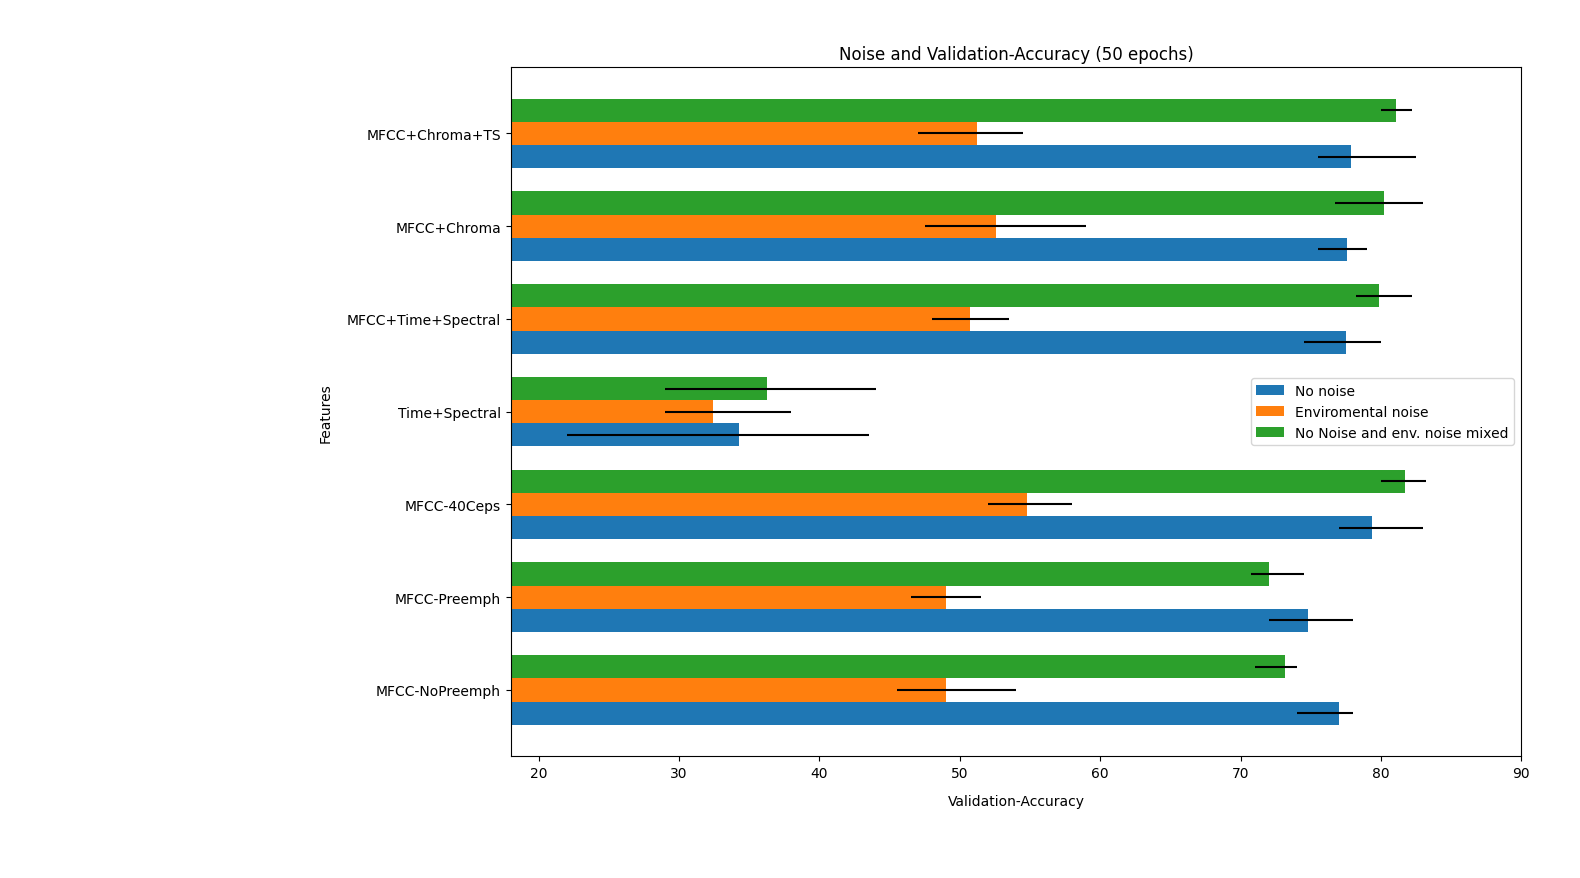
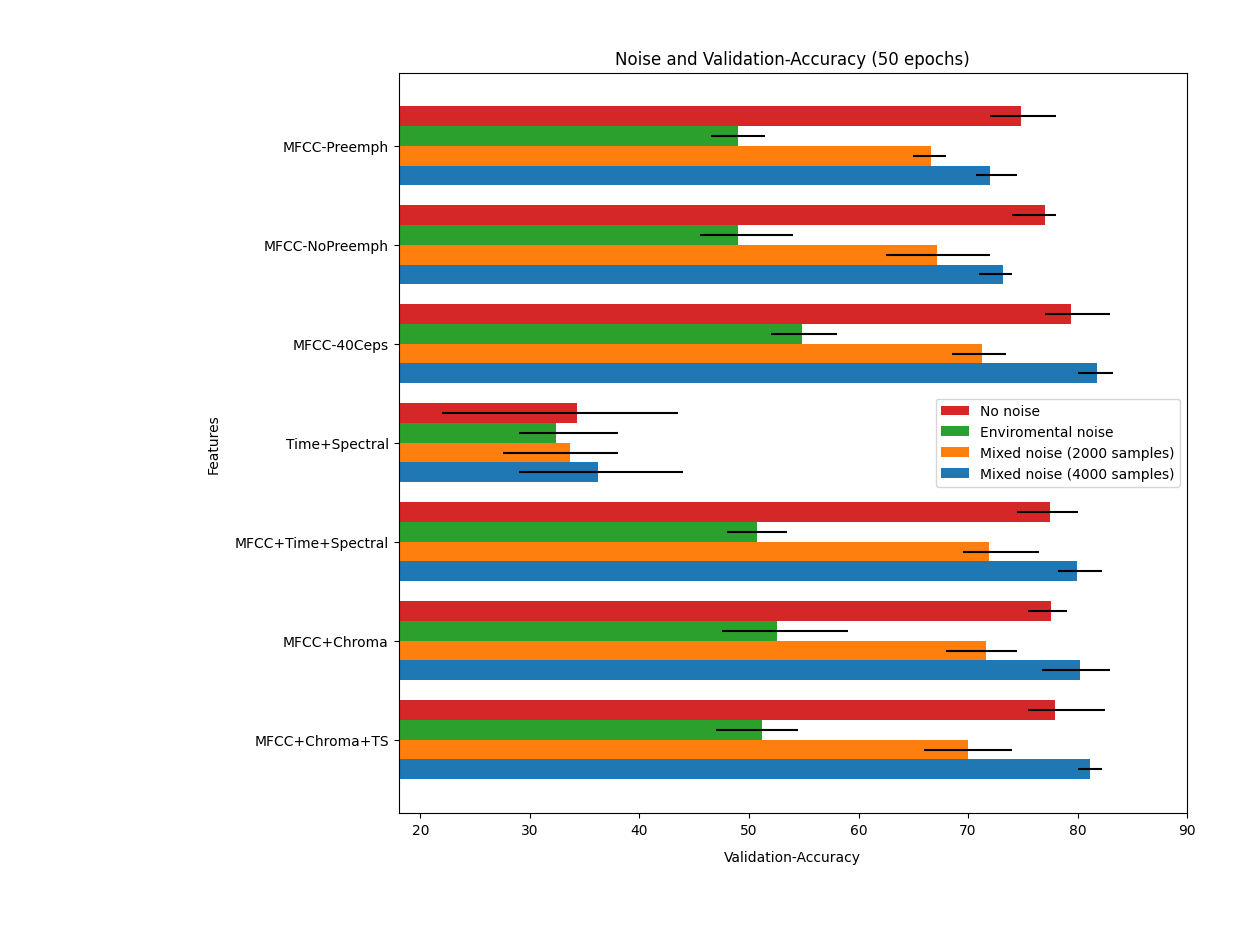
Added mixed noise testing with 2000 samples

diff --git a/scripts/evenmaker.py b/scripts/evenmaker.py
@@ -25,20 +25,20 @@ def match_target_amplitude(sound, target_dBFS):
     change_in_dBFS = target_dBFS - sound.dBFS
     return sound.apply_gain(change_in_dBFS)
 
-os.chdir(PATH_EMO)
-
-for aud in glob.glob("*.wav"):
-    sound = AudioSegment.from_file(aud)
-    sound = sound.set_frame_rate(OUTRATE)
-    sound = sound.set_channels(OUTCHANNELS)
-    silence = AudioSegment.silent(duration=0.1)  #duration in milliseconds
-    silence.set_frame_rate(OUTRATE)
-    silence.set_channels(OUTCHANNELS)
-    sound += silence
-    sound += silence
-    sound = match_target_amplitude(sound, -40.0)
-    filepath = PATH_EMO_NEW + aud
-    sound.export(filepath, format="wav")
+# os.chdir(PATH_EMO)
+#
+# for aud in glob.glob("*.wav"):
+#     sound = AudioSegment.from_file(aud)
+#     sound = sound.set_frame_rate(OUTRATE)
+#     sound = sound.set_channels(OUTCHANNELS)
+#     silence = AudioSegment.silent(duration=0.1)  #duration in milliseconds
+#     silence.set_frame_rate(OUTRATE)
+#     silence.set_channels(OUTCHANNELS)
+#     sound += silence
+#     sound += silence
+#     sound = match_target_amplitude(sound, -40.0)
+#     filepath = PATH_EMO_NEW + aud
+#     sound.export(filepath, format="wav")
 
 # os.chdir(PATH_EMO_NEW)
 #
@@ -68,15 +68,15 @@ for aud in glob.glob("*.wav"):
 #     print('Subtype: {}'.format(ob.subtype))
 #     print('Frames: {}'.format(ob.frames))
 
-os.chdir(PATH_ZENODO)
-
-for aud in glob.glob("*.wav"):
-    sound = AudioSegment.from_file(aud)
-    sound = sound.set_frame_rate(OUTRATE)
-    sound = sound.set_channels(OUTCHANNELS)
-    sound = match_target_amplitude(sound, -40.0)
-    filepath = PATH_ZENODO_NEW + aud
-    sound.export(filepath, format="wav")
+# os.chdir(PATH_ZENODO)
+#
+# for aud in glob.glob("*.wav"):
+#     sound = AudioSegment.from_file(aud)
+#     sound = sound.set_frame_rate(OUTRATE)
+#     sound = sound.set_channels(OUTCHANNELS)
+#     sound = match_target_amplitude(sound, -40.0)
+#     filepath = PATH_ZENODO_NEW + aud
+#     sound.export(filepath, format="wav")
 
 # os.chdir(PATH_ZENODO_NEW)
 #
@@ -87,25 +87,25 @@ for aud in glob.glob("*.wav"):
 #     print('Subtype: {}'.format(ob.subtype))
 #     print('Frames: {}'.format(ob.frames))
 
-os.chdir(PATH_ENV)
-
-for aud in glob.glob("*.wav"):
-    sound = AudioSegment.from_file(aud)
-    sound = sound.set_frame_rate(OUTRATE)
-    sound = sound.set_channels(OUTCHANNELS)
-    silence = AudioSegment.silent(duration=0.1)  #duration in milliseconds
-    silence.set_frame_rate(OUTRATE)
-    silence.set_channels(OUTCHANNELS)
-    sound += silence
-    sound += silence
-    sound += silence
-    silence = AudioSegment.silent(duration=833.4)  #duration in milliseconds
-    silence.set_frame_rate(OUTRATE)
-    silence.set_channels(OUTCHANNELS)
-    sound += silence
-    sound = match_target_amplitude(sound, -40.0)
-    filepath = PATH_ENV_NEW + aud
-    sound.export(filepath, format="wav")
+# os.chdir(PATH_ENV)
+#
+# for aud in glob.glob("*.wav"):
+#     sound = AudioSegment.from_file(aud)
+#     sound = sound.set_frame_rate(OUTRATE)
+#     sound = sound.set_channels(OUTCHANNELS)
+#     silence = AudioSegment.silent(duration=0.1)  #duration in milliseconds
+#     silence.set_frame_rate(OUTRATE)
+#     silence.set_channels(OUTCHANNELS)
+#     sound += silence
+#     sound += silence
+#     sound += silence
+#     silence = AudioSegment.silent(duration=833.4)  #duration in milliseconds
+#     silence.set_frame_rate(OUTRATE)
+#     silence.set_channels(OUTCHANNELS)
+#     sound += silence
+#     sound = match_target_amplitude(sound, -40.0)
+#     filepath = PATH_ENV_NEW + aud
+#     sound.export(filepath, format="wav")
 
 # os.chdir(PATH_ENV_NEW)
 #

diff --git a/graphs/noise_and_feature/noise_and_feature.py b/graphs/noise_and_feature/noise_and_feature.py
@@ -17,6 +17,10 @@ l=[]
 lmin=[]
 lmax=[]
 
+m=[]
+mmin=[]
+mmax=[]
+
 os.chdir("/home/smu/Desktop/RNN/graphs/noise_and_feature")
 
 with open('data_both_nonoise.csv', 'r') as csvfile:
@@ -50,22 +54,40 @@ with open('data_both_mixednoise.csv', 'r') as csvfile:
 
 lerror = [lmin, lmax]
 
+with open('data_both_mixednoise2000.csv', 'r') as csvfile:
+    plots = csv.reader(csvfile, delimiter=',')
+    next(plots, None)
+    for row in plots:
+        m.append(float(row[8]))
+        mmin.append(float(row[8])-float(row[6]))
+        mmax.append(float(row[7])-float(row[8]))
+
+merror = [mmin, mmax]
+
 y_pos = np.arange(len(x))
 
 plt.xlim(18,90)
+plt.ylim()
 # Create bars
-fig1 = plt.barh(y_pos, y, xerr=yerror, height=0.25)
-fig2 = plt.barh(y_pos+0.25, k, xerr=kerror, height=0.25)
-fig3 = plt.barh(y_pos+0.5, l, xerr=lerror, height=0.25)
+fig1 = plt.barh(y_pos, l, xerr=lerror, height=0.20, label='Mixed noise (4000 samples)')
+fig2 = plt.barh(y_pos+0.20, m, xerr=merror, height=0.20, label='Mixed noise (2000 samples)')
+fig3 = plt.barh(y_pos+0.40, k, xerr=kerror, height=0.20, label='Enviromental noise')
+fig3 = plt.barh(y_pos+0.60, y, xerr=yerror, height=0.20, label='No noise')
 
 # Create names on the x-axis
-plt.yticks(y_pos+0.25, x)
+plt.yticks(y_pos+0.3, x)
+
 
 plt.title('Noise and Validation-Accuracy (50 epochs)')
 plt.xlabel('Validation-Accuracy',labelpad=10)
 plt.ylabel('Features',labelpad=10)
-plt.legend(('No noise', 'Enviromental noise', 'No Noise and env. noise mixed'))
-plt.tight_layout()
+plt.legend()
+# plt.legend(('Mixed noise (4000 samples)', 'Mixed noise (2000 samples)', 'Enviromental noise', 'No noise'))
 
+
+ax = plt.gca()
+handles, labels = ax.get_legend_handles_labels()
+ax.legend(handles[::-1], labels[::-1])
+plt.tight_layout()
 # Show graphic
 plt.show()

diff --git a/train_mfcc.py b/train_mfcc.py
@@ -21,13 +21,13 @@ import itertools
 import io
 
 # Preemph-Filter to reduce noise
-PREEMPH = 0.0
+PREEMPH = 0.97
 
 # Number of Testsamples
-NUMBER_TESTSAMPLES = 400
+NUMBER_TESTSAMPLES = 200
 
 # Name of the model (for saving and logs)
-PREMODELNAME = "rnn_full_40mfcc_nopreemph_mixednoise_resnet_ws08_512_"
+PREMODELNAME = "rnn_full_mfcc_preemph_mixednoise2000_resnet_ws08_512_"
 
 # NFFT - This is the frequency resolution
 # By default, the FFT size is the first equal or superior power of 2 of the window size.
@@ -45,10 +45,10 @@ WINDOW_STEP = 0.1
 UNITS = 512
 
 # Number of MFCCs
-NUMCEP = 40
+NUMCEP = 13
 
 # Number of Melfilters
-NUMFILT = 40
+NUMFILT = 26
 
 # Path where the train-data is stored
 PATH_TRAINDATA = "/home/smu/Desktop/RNN/train_data/"
@@ -395,7 +395,7 @@ while cc < 6:
     print("Generating model ...")
 
     # RESNET
-    input1 = layers.Input(shape=(None, 40))
+    input1 = layers.Input(shape=(None, 13))
     lstm1 = layers.LSTM(UNITS, return_sequences=True)(input1)
     lstm2 = layers.LSTM(UNITS, return_sequences=True)(lstm1)
     merge1 = layers.Concatenate(axis=2)([input1,lstm2])

diff --git a/train_mfcc+chroma.py b/train_mfcc+chroma.py
@@ -26,10 +26,10 @@ import io
 PREEMPH = 0.0
 
 # Number of Testsamples
-NUMBER_TESTSAMPLES = 400
+NUMBER_TESTSAMPLES = 200
 
 # Name of the model (for saving and logs)
-PREMODELNAME = "rnn_full_mfcc+chroma_nopreemph_mixednoise_resnet_ws08_512_"
+PREMODELNAME = "rnn_full_mfcc+chroma_nopreemph_mixednoise2000_resnet_ws08_512_"
 
 # NFFT - This is the frequency resolution
 # By default, the FFT size is the first equal or superior power of 2 of the window size.
@@ -70,7 +70,6 @@ print("Generating features from own recordings ...")
 for aud in tqdm(glob.glob("*.wav")):
     [Fs, x] = audioBasicIO.read_audio_file(aud)
     F, f_names = chromafeatures.feature_extraction(x, Fs, WINDOW_SIZE*Fs, WINDOW_STEP*Fs)
-    print(F)
     (rate,sig) = wav.read(aud)
     mfcc_feat = mfcc(sig, rate, numcep=NUMCEP, nfilt=NUMFILT, winlen=WINDOW_SIZE, winstep=WINDOW_STEP, nfft=NFFT, preemph=PREEMPH)
     emotion = "N"

diff --git a/train_mfcc+time+spec.py b/train_mfcc+time+spec.py
@@ -26,10 +26,10 @@ import io
 PREEMPH = 0.0
 
 # Number of Testsamples
-NUMBER_TESTSAMPLES = 400
+NUMBER_TESTSAMPLES = 200
 
 # Name of the model (for saving and logs)
-PREMODELNAME = "rnn_full_mfcc+time+spec_nopreemph_mixednoise_resnet_ws08_512_"
+PREMODELNAME = "rnn_full_mfcc+time+spec_nopreemph_mixednoise2000_resnet_ws08_512_"
 
 # NFFT - This is the frequency resolution
 # By default, the FFT size is the first equal or superior power of 2 of the window size.
@@ -87,7 +87,7 @@ for aud in tqdm(glob.glob("*.wav")):
         emotion = "T"
     F = np.swapaxes(F, 0, 1)
     F = np.append(F, mfcc_feat, axis=1)
-    featurefile = "../../train_data/" + aud + "___" + emotion
+    featurefile = "../../train_data/" + aud + "_" + emotion
     np.save(featurefile, F)
 
 os.chdir("/home/smu/Desktop/RNN/audiodata/own_sixseconds_envnoise")

diff --git a/scripts/adjustlength_own.py b/scripts/adjustlength_own.py
@@ -6,7 +6,7 @@ from pydub.utils import make_chunks
 import os
 import glob, shutil, sys, random
 
-os.chdir("/home/smu/Desktop/RNN/own")
+os.chdir("/home/smu/Desktop/RNN/audiodata/0_srcfiles/own")
 
 print("Making each sample 6 seconds long")
 
@@ -16,7 +16,7 @@ for aud in glob.glob("*.wav"):
     chunks = make_chunks(myaudio, chunk_length_ms) #Make chunks of one sec
     for i, chunk in enumerate(chunks):
         c_name = "_{0}.wav".format(i)
-        filepath = "/home/smu/Desktop/RNN/own_sixseconds/" + aud
+        filepath = "/home/smu/Desktop/RNN/audiodata/own_sixseconds/" + aud
         chunk_name = filepath + c_name
         chunk.export(chunk_name, format="wav")
 

diff --git a/chromafeatures.py b/chromafeatures.py
@@ -97,10 +97,8 @@ def feature_extraction(signal, sampling_rate, window, step):
 
         chroma_names, chroma_feature_matrix = \
             chroma_features(fft_magnitude, sampling_rate, num_fft)
-        chroma_features_end = 0 + \
-                              n_chroma_feats - 1
-        feature_vector[0:chroma_features_end] = \
-            chroma_feature_matrix
+        chroma_features_end = 0 + n_chroma_feats - 1
+        feature_vector[0:chroma_features_end] = chroma_feature_matrix
         feature_vector[chroma_features_end] = chroma_feature_matrix.std()
 
         features.append(feature_vector)

diff --git a/scripts/addenvnoise.py b/scripts/addenvnoise.py
@@ -7,8 +7,8 @@ import os
 import glob, shutil, sys, random
 
 PATH_ENVNOISE = "/home/smu/Desktop/RNN/audiodata/envnoise_sixseconds/"
-PATH_OUTPUT = "/home/smu/Desktop/RNN/audiodata/zenodo_sixseconds_envnoise/"
-PATH_INPUT = "/home/smu/Desktop/RNN/audiodata/zenodo_sixseconds"
+PATH_OUTPUT = "/home/smu/Desktop/RNN/audiodata/own_sixseconds_envnoise/"
+PATH_INPUT = "/home/smu/Desktop/RNN/audiodata/own_sixseconds"
 
 # Function to normalize set the overlay gain of the noise
 def set_to_target_level(sound, target_level):

diff --git a/train_mfcc+time+spec+chroma.py b/train_mfcc+time+spec+chroma.py
@@ -26,10 +26,10 @@ import io
 PREEMPH = 0.0
 
 # Number of Testsamples
-NUMBER_TESTSAMPLES = 400
+NUMBER_TESTSAMPLES = 200
 
 # Name of the model (for saving and logs)
-PREMODELNAME = "rnn_full_mfcc+chroma+time+spec_nopreemph_mixednoise_resnet_ws08_512_"
+PREMODELNAME = "rnn_full_mfcc+chroma+time+spec_nopreemph_mixednoise2000_resnet_ws08_512_"
 
 # NFFT - This is the frequency resolution
 # By default, the FFT size is the first equal or superior power of 2 of the window size.

diff --git a/scripts/mixtogether.py b/scripts/mixtogether.py
@@ -1,0 +1,11 @@
+import glob, os, shutil, sys, random
+
+NUMBERSAMPLES = 210
+PATH_SOURCE = "/home/smu/Desktop/RNN/audiodata/own_sixseconds/"
+PATH_DESTINATION = "/home/smu/Desktop/RNN/audiodata/temp/"
+
+for x in range(NUMBERSAMPLES):
+    random_file=random.choice(os.listdir(PATH_SOURCE))
+    src = PATH_SOURCE + random_file
+    dst = PATH_DESTINATION + random_file
+    shutil.move(src,dst)

diff --git a/graphs/melscale.py b/graphs/melscale.py
@@ -1,0 +1,22 @@
+import matplotlib.pyplot as plt
+import numpy as np
+import math
+
+# Create the vectors X and Y
+x = np.array(range(10000))
+tempx = x / 700
+tempx = 1 + tempx
+y = 2595 * np.log10(tempx)
+
+print(y)
+
+# Create the plot
+plt.plot(x,y)
+
+plt.xlabel('Frequenzskala in Hz')
+plt.ylabel('Melskala in Mel')
+plt.grid(alpha=.6,linestyle='--')
+
+
+# Show the plot
+plt.show()

diff --git a/train_time+spec.py b/train_time+spec.py
@@ -21,7 +21,7 @@ import itertools
 import io
 
 # Number of Testsamples
-NUMBER_TESTSAMPLES = 400
+NUMBER_TESTSAMPLES = 200
 
 # Name of the model (for saving and logs)
 PREMODELNAME = "rnn_full_time+spec_nopreemph_mixednoise_resnet_ws08_512_"
